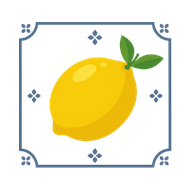
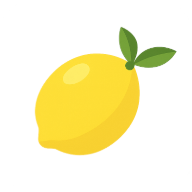
Add files via upload

diff --git a/index.html b/index.html
@@ -154,6 +154,12 @@
     .sync-btn:hover:not(:disabled){border-color:var(--navy);color:var(--navy)}
     .sync-btn:disabled{opacity:.5;cursor:default}
     .sync-err{font-size:12px;color:#b91c1c;background:#fef2f2;border:1px solid #fecaca;border-radius:8px;padding:7px 11px;margin-bottom:8px;line-height:1.5}
+    .day-wx-strip{display:flex;align-items:center;gap:10px;padding:8px 12px;background:var(--bg);border-radius:8px;margin-bottom:10px}
+    .day-wx-strip-icon{font-size:22px;line-height:1;flex-shrink:0}
+    .day-wx-strip-info{flex:1}
+    .day-wx-strip-temps{font-size:13px;font-weight:600}
+    .day-wx-strip-rain{font-size:12px;color:#3b82f6;margin-top:1px}
+    .day-wx-strip-source{font-size:10px;color:var(--muted);font-style:italic;text-align:right;flex-shrink:0}
     @media(max-width:560px){.split-timeline{grid-template-columns:1fr}.weather-grid{grid-template-columns:1fr}:root{--hdr:156px}}
   </style>
 </head>
